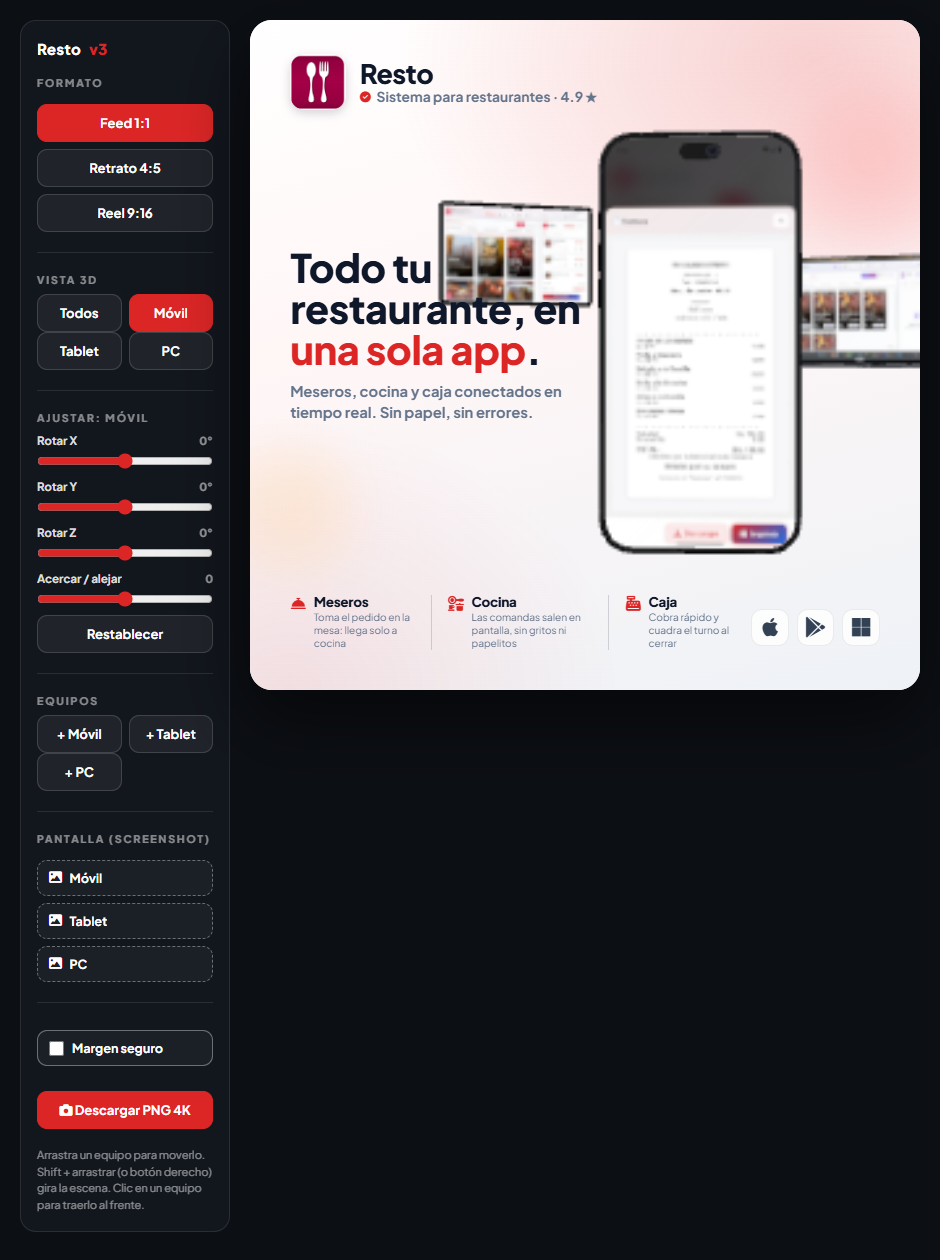
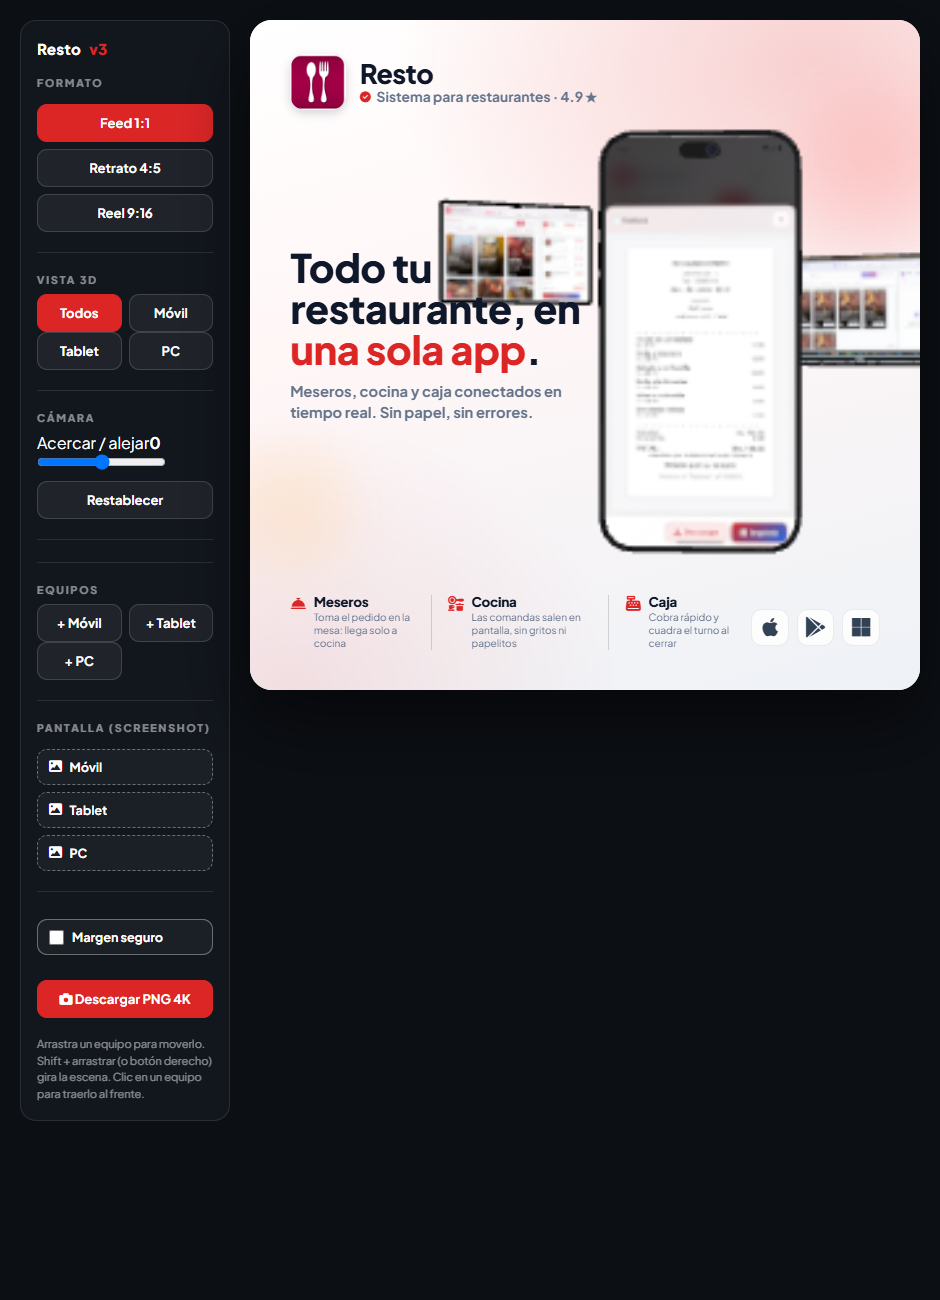
chore: actualizar v3 y limpiar screenshots

diff --git a/js/v3.js b/js/v3.js
@@ -236,7 +236,7 @@
         pivot: pivot, root: root, screen: screen,
         half: { x: sz.x / 2, y: sz.y / 2 },
         offset: { x: 0, y: 0 },
-        adj: { rx: 0, ry: 0, rz: 0, dz: 0 },
+        adj: { rx: 0, ry: 0, rz: 0 },
         slotP: { x: 0, y: 0, z: 0 }, slotS: 1
       };
       deviceOrder.push(id);
@@ -437,8 +437,8 @@
       var d = devices[key];
       var g = d.pivot.userData.goal;
       if (!g) return;
-      var a = d.adj || { rx: 0, ry: 0, rz: 0, dz: 0 };
-      d.pivot.position.lerp(new THREE.Vector3(g.p[0], g.p[1], g.p[2] + a.dz), 0.12);
+      var a = d.adj || { rx: 0, ry: 0, rz: 0 };
+      d.pivot.position.lerp(new THREE.Vector3(g.p[0], g.p[1], g.p[2]), 0.12);
       d.pivot.rotation.x += (a.rx - d.pivot.rotation.x) * 0.12;
       d.pivot.rotation.y += ((g.ry + a.ry) - d.pivot.rotation.y) * 0.12;
       d.pivot.rotation.z += (a.rz - d.pivot.rotation.z) * 0.12;
@@ -453,6 +453,12 @@
       stage.position.y += (sg.y - stage.position.y) * 0.12;
     }
     stage.position.y += Math.sin(t * 1.1) * 0.0016;
+
+    // zoom de cámara (lente/FOV)
+    if (typeof camGoalFov === 'number') {
+      camera.fov += (camGoalFov - camera.fov) * 0.12;
+      camera.updateProjectionMatrix();
+    }
 
     // giro por arrastre
     drag.ry += (drag.tRy - drag.ry) * 0.08;
@@ -622,14 +628,12 @@
   var sliders = {
     rx: document.getElementById('rot-x'),
     ry: document.getElementById('rot-y'),
-    rz: document.getElementById('rot-z'),
-    dz: document.getElementById('zoom')
+    rz: document.getElementById('rot-z')
   };
   var outs = {
     rx: document.getElementById('rot-x-v'),
     ry: document.getElementById('rot-y-v'),
-    rz: document.getElementById('rot-z-v'),
-    dz: document.getElementById('zoom-v')
+    rz: document.getElementById('rot-z-v')
   };
 
   function currentAdj() {
@@ -641,7 +645,6 @@
     outs.rx.textContent = sliders.rx.value + '\u00B0';
     outs.ry.textContent = sliders.ry.value + '\u00B0';
     outs.rz.textContent = sliders.rz.value + '\u00B0';
-    outs.dz.textContent = (+sliders.dz.value).toFixed(2).replace(/\.?0+$/, '') || '0';
   }
   function updateTools() {
     if (!modelTools) return;
@@ -652,7 +655,6 @@
     sliders.rx.value = Math.round(d.rx / DEG);
     sliders.ry.value = Math.round(d.ry / DEG);
     sliders.rz.value = Math.round(d.rz / DEG);
-    sliders.dz.value = d.dz;
     updateOut();
   }
   function bindSlider(el, key) {
@@ -661,22 +663,44 @@
       var d = currentAdj();
       updateOut();
       if (!d) return;
-      if (key === 'dz') d.dz = parseFloat(el.value) || 0;
-      else d[key] = (parseFloat(el.value) || 0) * DEG;
+      d[key] = (parseFloat(el.value) || 0) * DEG;
     });
   }
   bindSlider(sliders.rx, 'rx');
   bindSlider(sliders.ry, 'ry');
   bindSlider(sliders.rz, 'rz');
-  bindSlider(sliders.dz, 'dz');
 
   var modelReset = document.getElementById('model-reset');
   if (modelReset) modelReset.addEventListener('click', function () {
     var d = currentAdj();
     if (!d) return;
-    d.rx = d.ry = d.rz = d.dz = 0;
+    d.rx = d.ry = d.rz = 0;
     updateTools();
   });
+
+  /* --------------------------------------------- zoom de cámara (FOV) */
+  var camBaseFov = camera.fov;
+  var camGoalFov = camera.fov;
+  function fovFromZoom(v) { return Math.max(10, Math.min(64, camBaseFov - v * 0.22)); }
+  var camZoom = document.getElementById('cam-zoom');
+  var camZoomOut = document.getElementById('cam-zoom-v');
+  function updateCamOut() {
+    if (!camZoomOut) return;
+    var v = parseInt(camZoom.value, 10) || 0;
+    camZoomOut.textContent = (v > 0 ? '+' : '') + v;
+  }
+  if (camZoom) camZoom.addEventListener('input', function () {
+    camGoalFov = fovFromZoom(parseFloat(camZoom.value) || 0);
+    updateCamOut();
+  });
+  var camReset = document.getElementById('cam-reset');
+  if (camReset) camReset.addEventListener('click', function () {
+    if (!camZoom) return;
+    camZoom.value = 0;
+    camGoalFov = camBaseFov;
+    updateCamOut();
+  });
+  updateCamOut();
 
   updateTools();
 

diff --git a/v3.html b/v3.html
@@ -4,7 +4,7 @@
 <meta charset="UTF-8" />
 <meta name="viewport" content="width=device-width, initial-scale=1.0" />
 <title>Resto — Anuncio v3</title>
-<link rel="stylesheet" href="css/v3.css" />
+<link rel="stylesheet" href="css/v3.css?v=4" />
 </head>
 <body>
   <aside class="tools">
@@ -28,12 +28,17 @@
       </div>
     </div>
     <hr />
+    <div class="tool-group">
+      <span>Cámara</span>
+      <label class="slider"><span>Acercar / alejar</span><b id="cam-zoom-v">0</b><input type="range" id="cam-zoom" min="-100" max="100" step="1" value="0" /></label>
+      <button id="cam-reset">Restablecer</button>
+    </div>
+    <hr />
     <div class="tool-group" id="model-tools" hidden>
       <span id="model-tools-title">Ajustar modelo</span>
       <label class="slider"><span>Rotar X</span><b id="rot-x-v">0&deg;</b><input type="range" id="rot-x" min="-180" max="180" step="1" value="0" /></label>
       <label class="slider"><span>Rotar Y</span><b id="rot-y-v">0&deg;</b><input type="range" id="rot-y" min="-180" max="180" step="1" value="0" /></label>
       <label class="slider"><span>Rotar Z</span><b id="rot-z-v">0&deg;</b><input type="range" id="rot-z" min="-180" max="180" step="1" value="0" /></label>
-      <label class="slider"><span>Acercar / alejar</span><b id="zoom-v">0</b><input type="range" id="zoom" min="-2.5" max="2.5" step="0.05" value="0" /></label>
       <button id="model-reset">Restablecer</button>
     </div>
     <hr />
@@ -104,6 +109,6 @@
   <script src="libs/three.min.js"></script>
   <script src="libs/GLTFLoader.js"></script>
   <script src="libs/html-to-image.js"></script>
-  <script src="js/v3.js"></script>
+  <script src="js/v3.js?v=4"></script>
 </body>
 </html>

diff --git a/css/v3.css b/css/v3.css
@@ -211,15 +211,15 @@ body {
 .card.fmt-portrait .headline { top: 47%; width: 50cqw; }
 .card.fmt-portrait .headline h1 { font-size: 6.7cqw; }
 
-/* ------------------------------------------ tools del modelo seleccionado */
-#model-tools .slider {
+/* ------------------------------------------ sliders de herramientas */
+.tools .slider {
   display: grid; grid-template-columns: 1fr auto; align-items: center; gap: 4px 8px;
   margin-top: 9px; font-size: 11.5px; font-weight: 700; color: rgba(255,255,255,.85);
 }
-#model-tools .slider input[type="range"] {
+.tools .slider input[type="range"] {
   grid-column: 1 / -1; width: 100%; height: 18px; accent-color: var(--red); cursor: pointer;
 }
-#model-tools .slider b { font-size: 11px; font-weight: 700; opacity: .65; text-align: right; }
+.tools .slider b { font-size: 11px; font-weight: 700; opacity: .65; text-align: right; }
 
 @media (max-width: 860px) {
   body { flex-direction: column; align-items: center; }
